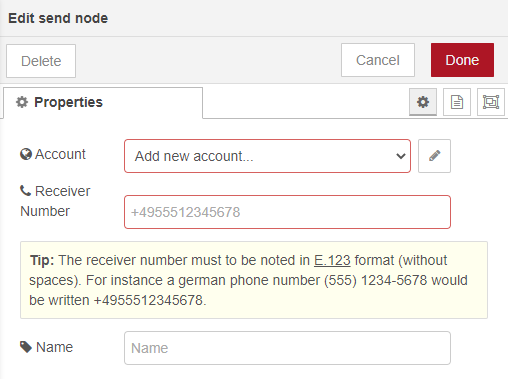
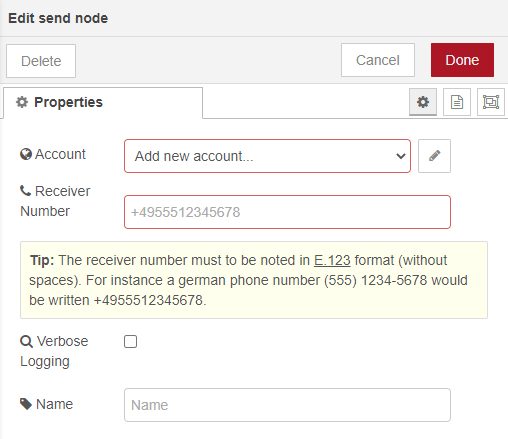
Verbose logging

diff --git a/src/signal-client.js b/src/signal-client.js
@@ -69,12 +69,12 @@ module.exports = function(RED) {
                         configuration,
                     );
                     await accountManager.requestSMSVerification();
-                    node.log("Registration code requested via sms.");
+                    node.log("Signal client: registration code requested via sms.");
                 } catch (err) {
                     node.error(err);
                 }
             } else {
-                node.error("Please configure an account.");
+                node.error("Signal client: please configure an account.");
             }
         });
     }
@@ -100,12 +100,12 @@ module.exports = function(RED) {
                         configuration,
                     );
                     await accountManager.requestVoiceVerification();
-                    node.log("Registration code requested via voice call.");
+                    node.log("Signal client: registration code requested via voice call.");
                 } catch (err) {
                     node.error(err);
                 }
             } else {
-                node.error("Please configure an account.");
+                node.error("Signal client: please configure an account.");
             }
         });
     }
@@ -137,12 +137,12 @@ module.exports = function(RED) {
                     );
                     const registrationCode = config.registrationCode.replace("-", "");
                     await accountManager.registerSingleDevice(registrationCode);
-                    node.log("Registration performed.");
+                    node.log("Signal client: registration performed.");
                 } catch (err) {
                     node.error(err);
                 }
             } else {
-                node.error("Please configure an account and the registration code.");
+                node.error("Signal client: please configure an account and the registration code.");
             }
         });
     }
@@ -166,12 +166,15 @@ module.exports = function(RED) {
                         number: config.receiverNumber,
                         body: msg.payload,
                     });
-                    node.log(`Message sent: ${JSON.stringify(result)}`);
+
+                    if (config.verboseLogging) {
+                        node.log(`Signal client message sent: ${JSON.stringify(result)}`);
+                    }
                 } catch (err) {
                     node.error(JSON.stringify(err));
                 }
             } else {
-                node.error("Please configure an acoount, a receiver number and provide an payload in the message.");
+                node.error("Signal client: please configure an acoount, a receiver number and provide an payload in the message.");
             }
         });
     }
@@ -193,12 +196,8 @@ module.exports = function(RED) {
                 .connect()
                 .then(() => {
                     messageReceiver.addEventListener("message", event => {
-                        node.log("*** EVENT ***:" + JSON.stringify(event));
-                        if (event.data.message.group) {
-                            node.log(event.data.message.group);
-                            node.log(`Received message in group ${event.data.message.group.id}: ${event.data.message.body}`);
-                        } else {
-                            node.log("Received message: " + event.data.message.body);
+                        if (config.verboseLogging) {
+                            node.log(`Signal client message received: ${JSON.stringify(event)}`);
                         }
 
                         const message = {
@@ -213,7 +212,7 @@ module.exports = function(RED) {
                     node.error(JSON.stringify(err));
                 });
         } else {
-            node.error("Please configure an acoount.");
+            node.error("Signal client: please configure an acoount.");
         }
     }
     RED.nodes.registerType("receive", ReceiveNode);

diff --git a/src/signal-client.html b/src/signal-client.html
@@ -169,6 +169,7 @@
         defaults: {
             account: { value: "", type: "account" },
             receiverNumber: { value: "", required: true },
+            verboseLogging: { value: false },
             name: { value: "", required: false },
         },
         inputs: 1,
@@ -193,6 +194,10 @@
         <div class="form-tips" style="width: auto"><b>Tip:</b> The receiver number must to be noted in <a href="https://en.wikipedia.org/wiki/E.123" target_="_blank">E.123</a> format (without spaces). For instance a german phone number (555) 1234-5678 would be written +4955512345678.</div>
     </div>    
     <div class="form-row">
+        <label for="node-input-verboseLogging"><i class="fa fa-search"></i> Verbose Logging</label>
+        <input type="checkbox" id="node-input-verboseLogging" style="display: inline-block; width: auto; vertical-align: top;">
+    </div>    
+    <div class="form-row">
         <label for="node-input-name"><i class="fa fa-tag"></i> Name</label>
         <input type="text" id="node-input-name" placeholder="Name">
     </div>
@@ -211,6 +216,7 @@
         color: '#5692f3',
         defaults: {
             account: { value: "", type: "account" },
+            verboseLogging: { value: false },
             name: { value: "", required: false },
         },
         inputs: 0,
@@ -224,9 +230,13 @@
 
 <script type="text/html" data-template-name="receive">
     <div class="form-row">
-        <label for="node-input-account"><i class="fa fa-tag"></i> Account</label>
+        <label for="node-input-account"><i class="fa fa-globe"></i> Account</label>
         <input id="node-input-account">
     </div>
+    <div class="form-row">
+        <label for="node-input-verboseLogging"><i class="fa fa-search"></i> Verbose Logging</label>
+        <input type="checkbox" id="node-input-verboseLogging" style="display: inline-block; width: auto; vertical-align: top;">
+    </div>    
     <div class="form-row">
         <label for="node-input-name"><i class="fa fa-tag"></i> Name</label>
         <input type="text" id="node-input-name" placeholder="Name">

diff --git a/README.md b/README.md
@@ -62,6 +62,8 @@ The "send" node is used to send a message.
 
 A previously registered account is selected as sender. The recipient's telephone number is configured for receiving the message.
 
+The "Verbose Logging" checkbox is activated for extended log outputs in the Node-RED log. The logs are not  shown in the "Debug messages" sidebar.
+
 <img src="images/SendNodeConfiguration.png" title="Send node configuration" />
 
 The message to be sent is transferred in the payload as string when the node is executed. A simple flow can look like this:
@@ -74,6 +76,8 @@ The "receive" node is used to receive a message.
 <img src="images/ReceiveNode.png" title="Receive node" />
 
 A previously registered account is selected as receiver.
+
+The "Verbose Logging" checkbox is activated for extended log outputs in the Node-RED log. The logs are not  shown in the "Debug messages" sidebar.
 
 <img src="images/ReceiveNodeConfiguration.png" title="Receive node configuration" />
 

diff --git a/CHANGELOG.md b/CHANGELOG.md
@@ -1,18 +1,22 @@
 # Changelog
 All notable changes to this project will be documented in this file.
 
+## [1.3.0] 2021-01-04
+### Added
+- Verbose Logging for send and receive.
+
 ## [1.2.0] 2021-01-03
-### Changes
+### Added
 - New node for registration via voice call.
 - Save all account info in sub directory "signal" to avoid conflicts. Reregistration is neccessary.
 
 ## [1.1.0] 2020-12-31
-### Changes
+### Added
  - Documentation.
  - Registration data is stored in the user settings directory.
 
 ## [1.0.0] 2020-12-30
-### Changes
+### Added
  - Initial version.
 
 **Note:** The format is based on [Keep a Changelog](https://keepachangelog.com/en/1.0.0/), and this project adheres to [Semantic Versioning](https://semver.org/spec/v2.0.0.html).
